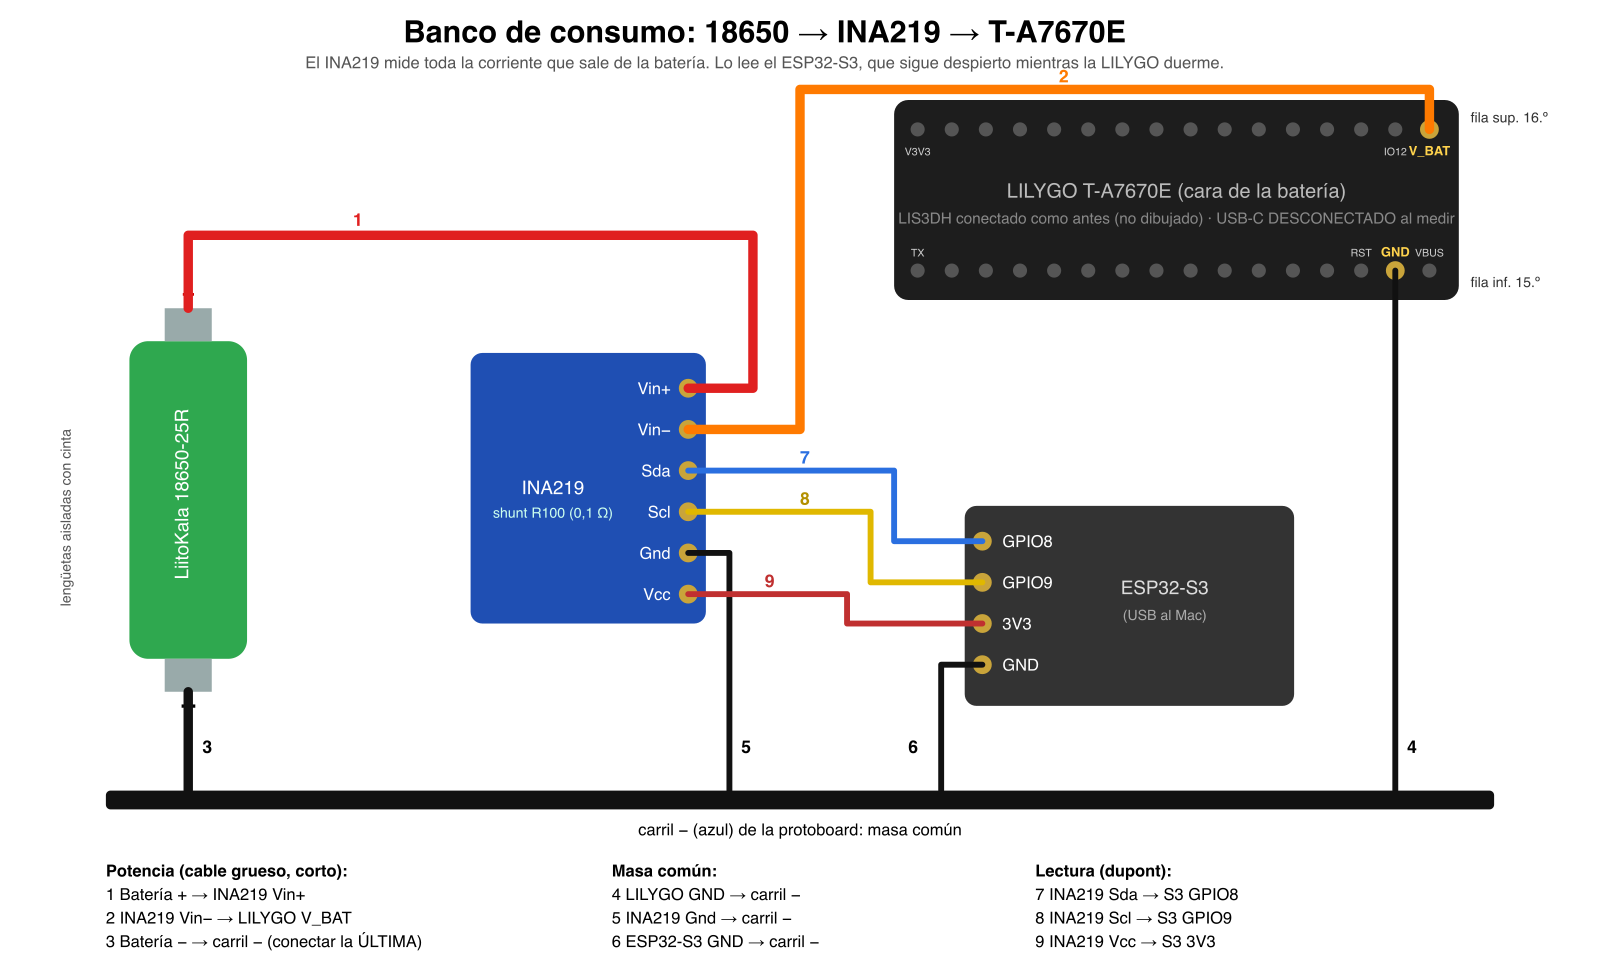
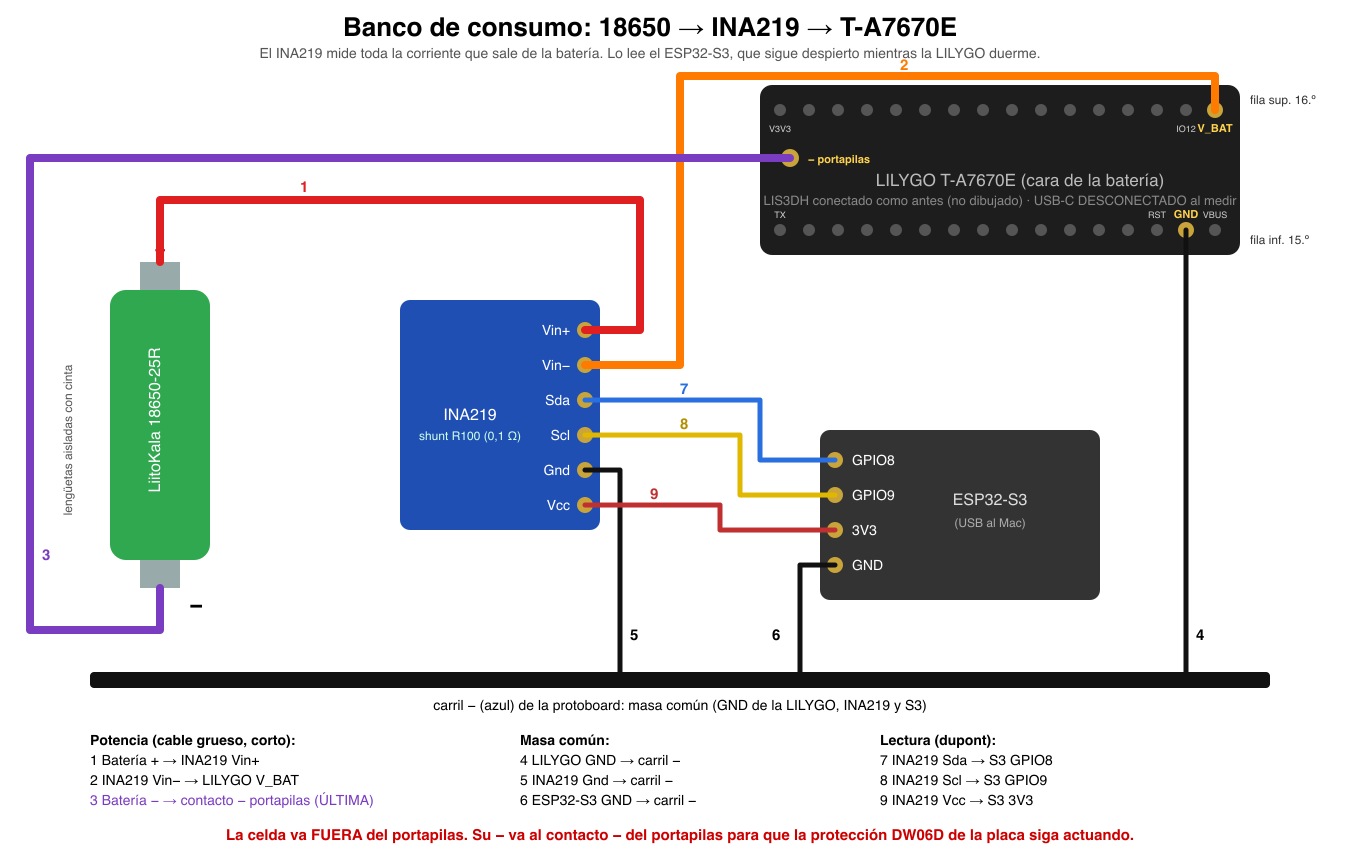
docs(hardware): keep the board's battery protection in the power bench
Battery − reaches board GND through the DW06D low-side switch, so the bench
must feed the holder's − contact instead of the ground rail.

diff --git a/docs/hardware/BRINGUP_LOG.md b/docs/hardware/BRINGUP_LOG.md
@@ -109,3 +109,21 @@ Sin pull-down en INT1 no hubo falsos disparos: la salida push-pull fija el nivel
 
 Lección: los cables dupont baratos fallan por dentro sin que se note. Antes de
 sospechar del chip, mirar los niveles de las líneas al arrancar.
+
+## 2026-11-05 · Unidad 1 · Camino de la batería (preparación del banco)
+
+Medido con multímetro, celda LiitoKala 25R a 3,798 V.
+
+| Comprobación | Resultado | Lectura |
+|---|---|---|
+| Continuidad + portapilas ↔ pin `V_BAT`, sin celda | Pita | `V_BAT` es el + de la celda, directo |
+| Continuidad − portapilas ↔ pin `GND`, sin celda | No pita | La protección DW06D (U8) está en el lado −. Sin celda no tiene alimentación y sus MOSFET quedan abiertos |
+| `V_BAT`–`GND` con celda, sin USB | 3,789 V | 9 mV de caída en contactos y protección. Con celda, la protección conduce |
+| − portapilas ↔ `GND` con celda | 0 V | Ídem |
+
+Consecuencia para el banco: la batería − va al contacto − del portapilas, no
+a la GND. Así la protección sigue actuando y su consumo entra en P1. Diagrama
+corregido.
+
+Con USB y sin celda, `!vbat` lee 4268 mV: es la salida del cargador CN3065,
+no una batería.
